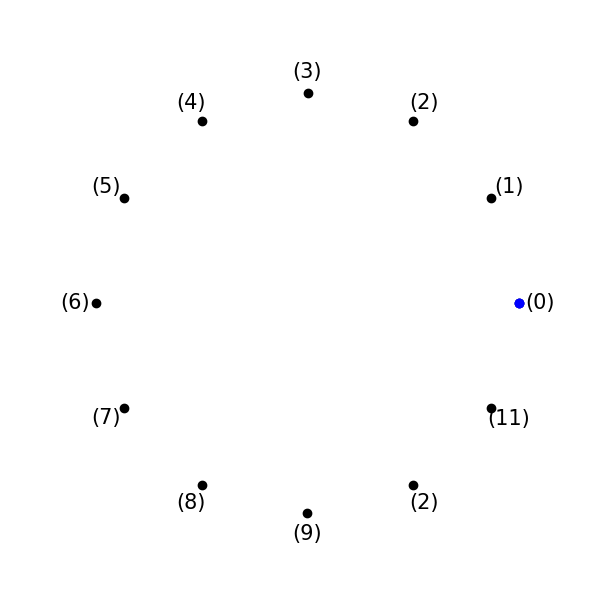
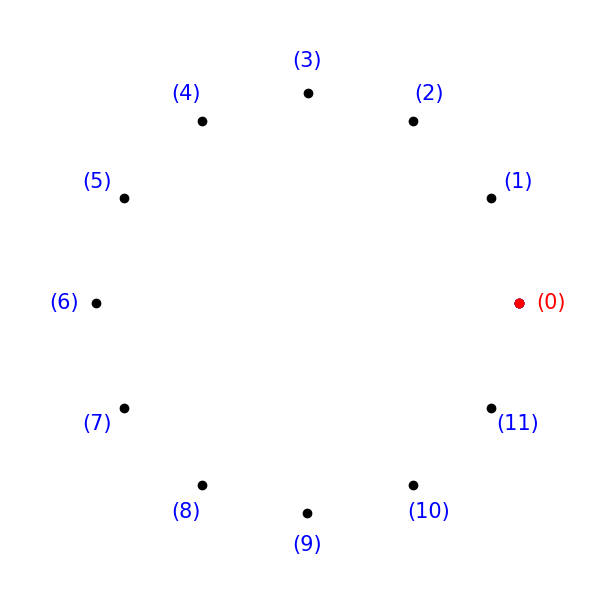
further improved readability. Corrected index calculation mistake that displayed incorrect index value for one point in at least two figures.

diff --git a/stargons.py b/stargons.py
@@ -41,14 +41,20 @@ def save_stargon(a,b):
     p_x = [point[0] for point in points]
     p_y = [point[1] for point in points]
     plt.plot(p_x, p_y, 'o', color='black')
-    for (i, j) in zip(p_x, p_y):
-        plt.text(i*1.1, j*1.1, f'({p_x.index(i)})', ha='center', va='center')
+    for i in range(a):
+        plt.text(p_x[i]*1.15,
+                 p_y[i]*1.15,
+                 f'({i})',
+                 ha='center',
+                 va='center',
+                 color = ('red' if i == b%a else 'blue'))
 
     # Connect ordered points
     ordered_points.append(ordered_points[0])
     op_x = [point[0] for point in ordered_points]
     op_y = [point[1] for point in ordered_points]
     plt.plot(op_x, op_y, 'bo', linestyle="-")
+    plt.plot(op_x, op_y, 'ro')
     
 
     path = str(os.getcwd())
@@ -74,15 +80,20 @@ def draw_stargon(a,b):
     # All points
     p_x = [point[0] for point in points]
     p_y = [point[1] for point in points]
-    plt.plot(p_x, p_y, 'o', color='black')
-    for (i, j) in zip(p_x, p_y):
-        plt.text(i*1.1, j*1.1, f'({p_x.index(i)})', ha='center', va='center')
+    for i in range(a):
+        plt.text(p_x[i]*1.15,
+                 p_y[i]*1.15,
+                 f'({i})',
+                 ha='center',
+                 va='center',
+                 color = ('red' if i == b%a else 'blue'))
 
     # Connect ordered points
     ordered_points.append(ordered_points[0])
     op_x = [point[0] for point in ordered_points]
     op_y = [point[1] for point in ordered_points]
     plt.plot(op_x, op_y, 'bo', linestyle="-")
+    plt.plot(op_x, op_y, 'ro')
     plt.show()
     return
 
